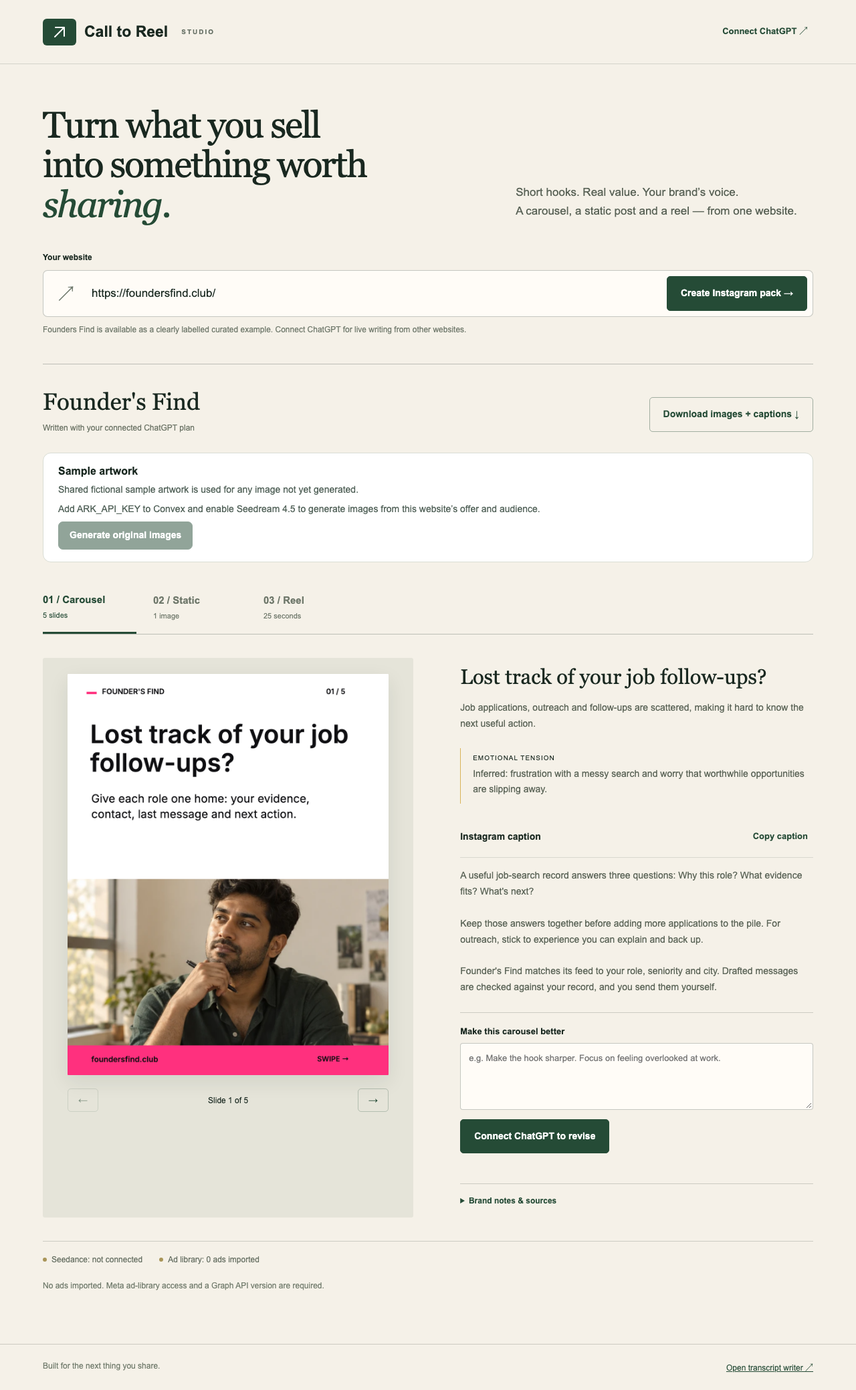
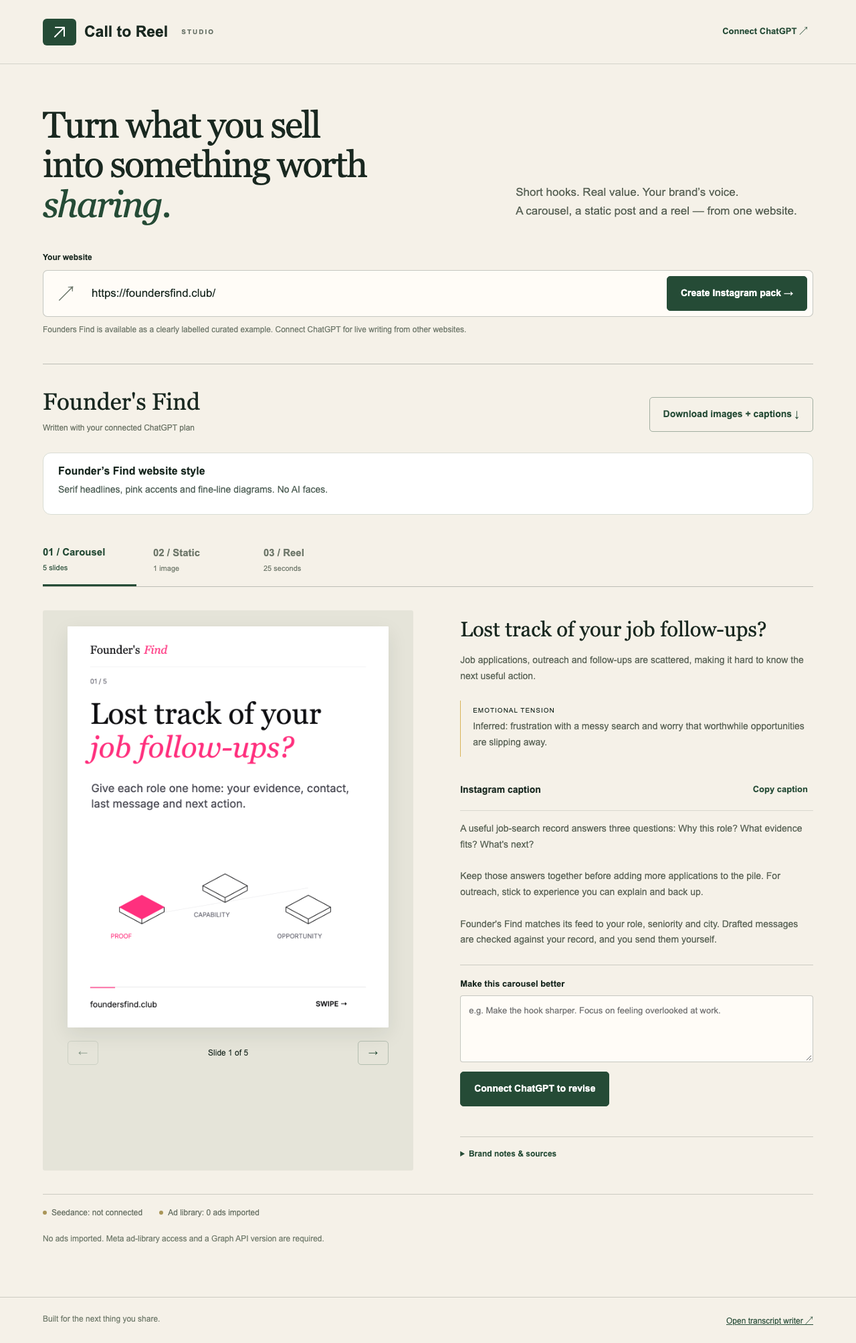
Match Founder’s Find website typography and remove AI faces from creatives

diff --git a/src/main.tsx b/src/main.tsx
@@ -3,6 +3,7 @@ import {createRoot} from 'react-dom/client';
 import {ConvexReactClient,useQuery,useMutation,useAction,useConvexAuth} from 'convex/react';
 import {ConvexAuthProvider,useAuthActions} from '@convex-dev/auth/react';
 import {api} from '../convex/_generated/api';
+import {typographyOnly} from '../convex/brandPresentation';
 import type {Brand,Post} from '../convex/studioTypes';
 import {TranscriptApp} from './TranscriptApp';
 import {drawFrame,exportImages,exportReel,exportAvatar} from './render';
@@ -37,20 +38,20 @@ function App(){
   <header className="studio-header"><a href="/" className="wordmark"><span className="mark"><svg width="24" height="24" viewBox="0 0 24 24" fill="none" aria-hidden="true"><path d="M5 19 19 5M6 5h13v13" stroke="currentColor" strokeWidth="2" strokeLinecap="round" strokeLinejoin="round"/></svg></span> Call to Reel <span className="beta">STUDIO</span></a><div className="connection">{connected?<><span className="connected-dot"/>ChatGPT connected<button className="text-button" onClick={()=>void disconnect({}).then(()=>signOut()).then(()=>setConnected(false))}>Disconnect</button></>:<button className="text-button" onClick={connect}>Connect ChatGPT ↗</button>}</div></header>
   <main className="studio-main">
    <section className="intro"><h1>Turn what you sell<br/>into something worth <em>sharing.</em></h1><p className="intro-copy">Short hooks. Real value. Your brand’s voice.<br/>A carousel, a static post and a reel — from one website.</p></section>
-   <form className="website-form" onSubmit={e=>{e.preventDefault();void create();}}><label htmlFor="website">Your website</label><div className="url-row"><span aria-hidden>↗</span><input id="website" type="text" inputMode="url" autoComplete="url" value={website} onChange={e=>setWebsite(e.target.value)} placeholder="https://yourbrand.com" required/><button disabled={starting||!!pack&&!pack.posts&&!pack.error}>{starting?'Starting…':'Create Instagram pack →'}</button></div><p>{connected?(providers?.images?'Writing uses your ChatGPT plan. Each new pack also requests two Seedream images using your configured BytePlus credits.':'Uses your connected ChatGPT plan. No paid API fallback.'):'Founders Find is available as a clearly labelled curated example. Connect ChatGPT for live writing from other websites.'}</p></form>
+   <form className="website-form" onSubmit={e=>{e.preventDefault();void create();}}><label htmlFor="website">Your website</label><div className="url-row"><span aria-hidden>↗</span><input id="website" type="text" inputMode="url" autoComplete="url" value={website} onChange={e=>setWebsite(e.target.value)} placeholder="https://yourbrand.com" required/><button disabled={starting||!!pack&&!pack.posts&&!pack.error}>{starting?'Starting…':'Create Instagram pack →'}</button></div><p>{connected?(providers?.images&&!typographyOnly({sourceUrl:website.includes('://')?website:'https://'+website})?'Writing uses your ChatGPT plan. Each new pack also requests two Seedream images using your configured BytePlus credits.':'Uses your connected ChatGPT plan. No paid API fallback.'):'Founders Find is available as a clearly labelled curated example. Connect ChatGPT for live writing from other websites.'}</p></form>
    {error&&<div className="error" role="alert">{error}</div>}
    {pack&&!pack.posts&&!pack.error&&<section className="progress" aria-live="polite"><span className="spinner"/><div><h2>{pack.stage}</h2><p>You can reload this page. Your pack keeps working in Convex.</p></div></section>}
    {pack?.error&&<section className="error" role="alert"><strong>This pack needs attention.</strong><p>{pack.error}</p><button onClick={()=>void create()}>Try again</button></section>}
    {pack?.posts&&pack.brand&&post&&<section className="pack-section">
     {pack.mode?.startsWith('Curated')&&<div className="sample-banner" role="status"><strong>Sample mode — curated Founders Find example</strong><p>This pack did not run the live AI writer. Connect ChatGPT for fresh content and feedback revisions.</p></div>}
     <div className="pack-heading"><div><h2>{pack.brand.name}</h2><p className="mode">{pack.mode}</p></div><button className="secondary" disabled={!!exporting} onClick={()=>void download('images')}>Download images + captions ↓</button></div>
-    <div className="image-status"><strong>{pack.imageStatus==='running'?'Generating original images for this website…':pack.imageStatus==='succeeded'?'Original images for this pack': 'Sample artwork'}</strong><p>{pack.imageError??pack.brand.artwork?.note??'Shared fictional sample artwork is used. It was not generated from this website.'}</p>{pack.imageStatus!=='succeeded'&&<><p>{providers?.images?'Seedream uses your BytePlus image credits. Two images are requested; completed images are kept on retry.':'Add ARK_API_KEY to Convex and enable Seedream 4.5 to generate images from this website’s offer and audience.'}</p><button disabled={!providers?.images||!connected||pack.imageStatus==='running'} onClick={()=>void freshImages()}>{pack.imageStatus==='running'?'Generating images…':pack.imageStatus==='failed'?'Retry original images':'Generate original images'}</button></>}</div>
+    <div className="image-status">{typographyOnly(pack.brand)?<><strong>Founder’s Find website style</strong><p>Serif headlines, pink accents and fine-line diagrams. No AI faces.</p></>:<><strong>{pack.imageStatus==='running'?'Generating original images for this website…':pack.imageStatus==='succeeded'?'Original images for this pack': 'Sample artwork'}</strong><p>{pack.imageError??pack.brand.artwork?.note??'Shared fictional sample artwork is used. It was not generated from this website.'}</p>{pack.imageStatus!=='succeeded'&&<><p>{providers?.images&&!typographyOnly({sourceUrl:website.includes('://')?website:'https://'+website})?'Seedream uses your BytePlus image credits. Two images are requested; completed images are kept on retry.':'Add ARK_API_KEY to Convex and enable Seedream 4.5 to generate images from this website’s offer and audience.'}</p><button disabled={!providers?.images||!connected||pack.imageStatus==='running'} onClick={()=>void freshImages()}>{pack.imageStatus==='running'?'Generating images…':pack.imageStatus==='failed'?'Retry original images':'Generate original images'}</button></>}</>}</div>
     <div className="format-tabs" role="tablist" aria-label="Post format">{(['carousel','static','reel'] as const).map(f=><button key={f} role="tab" aria-selected={active===f} onClick={()=>{setActive(f);setSlide(0);setCopied(false);}}>{f==='carousel'?'01 / Carousel':f==='static'?'02 / Static':'03 / Reel'}<span>{f==='carousel'?'5 slides':f==='static'?'1 image':'25 seconds'}</span></button>)}</div>
     <div className="creative-workspace"><div className="preview-column"><Preview post={post} brand={pack.brand} index={slide}/>{post.frames.length>1&&<div className="slide-nav"><button aria-label="Previous slide" disabled={slide===0} onClick={()=>setSlide(s=>s-1)}>←</button><span>{active==='reel'?'Scene':'Slide'} {slide+1} of {post.frames.length}</span><button aria-label="Next slide" disabled={slide===post.frames.length-1} onClick={()=>setSlide(s=>s+1)}>→</button></div>}</div>
      <aside className="content-column"><h3>{post.hook}</h3><p>{post.pain}</p><div className="emotion"><span>Emotional tension</span><p>{post.emotion}</p></div><div className="caption-heading"><h4>Instagram caption</h4><button className="text-button" onClick={()=>void navigator.clipboard.writeText(post.caption).then(()=>setCopied(true))}>{copied?'Copied ✓':'Copy caption'}</button></div><p className="caption">{post.caption}</p>
-      {active==='reel'&&<div className="media-note"><strong>Motion reel with original music</strong><p>A fictional AI-created portrait with animated text. This is not a talking or lip-synced avatar.</p><button disabled={!!exporting} onClick={()=>void download('reel')}>Download MP4 reel ↓</button><hr/><strong>Seedance talking-presenter video</strong>{pack.videoUrl?<><video controls src={pack.videoUrl} className="generated-video"/><p>Generated by Seedance. Review speech, appearance and claims before sharing.</p><button disabled={!!exporting} onClick={()=>void download('avatar')}>Download branded avatar MP4 ↓</button><a href={pack.videoUrl} target="_blank" rel="noreferrer">Open generated video ↗</a></>:<><p>{pack.videoError??(pack.videoStatus==='running'||pack.videoStatus==='queued'?'Seedance is generating your presenter video. This page will update.':providers?.seedance?'Uses your BytePlus video credits. A fictional presenter reads this reel.':'Add ARK_API_KEY to Convex to enable Seedance 2.5. ChatGPT does not include BytePlus video credits.')}</p><button disabled={!providers?.seedance||!connected||['queued','running'].includes(pack.videoStatus??'')} onClick={()=>void seedance()}>{pack.videoStatus==='running'||pack.videoStatus==='queued'?'Generating presenter…':pack.hasVideoTask?'Retry saved video task':'Generate with Seedance'}</button></>}</div>}
+      {active==='reel'&&<div className="media-note"><strong>Motion reel with original music</strong><p>{typographyOnly(pack.brand)?'Animated typography and fine-line brand diagrams. No AI faces.':'A fictional AI-created portrait with animated text. This is not a talking or lip-synced avatar.'}</p><button disabled={!!exporting} onClick={()=>void download('reel')}>Download MP4 reel ↓</button>{!typographyOnly(pack.brand)&&<><hr/><strong>Seedance talking-presenter video</strong>{pack.videoUrl?<><video controls src={pack.videoUrl} className="generated-video"/><p>Generated by Seedance. Review speech, appearance and claims before sharing.</p><button disabled={!!exporting} onClick={()=>void download('avatar')}>Download branded avatar MP4 ↓</button><a href={pack.videoUrl} target="_blank" rel="noreferrer">Open generated video ↗</a></>:<><p>{pack.videoError??(pack.videoStatus==='running'||pack.videoStatus==='queued'?'Seedance is generating your presenter video. This page will update.':providers?.seedance?'Uses your BytePlus video credits. A fictional presenter reads this reel.':'Add ARK_API_KEY to Convex to enable Seedance 2.5. ChatGPT does not include BytePlus video credits.')}</p><button disabled={!providers?.seedance||!connected||['queued','running'].includes(pack.videoStatus??'')} onClick={()=>void seedance()}>{pack.videoStatus==='running'||pack.videoStatus==='queued'?'Generating presenter…':pack.hasVideoTask?'Retry saved video task':'Generate with Seedance'}</button></>}</>}</div>}
       <form className="feedback-form" onSubmit={e=>{e.preventDefault();if(connected)void improve();else connect();}}><label htmlFor="feedback">Make this {active} better</label><textarea id="feedback" maxLength={1000} value={feedback} onChange={e=>setFeedback(e.target.value)} placeholder="e.g. Make the hook sharper. Focus on feeling overlooked at work."/><button disabled={revising||!!pack&&!pack.error&&pack.stage!=='Ready'}>{revising||pack.stage!=='Ready'&&!pack.error?'Revising…':connected?'Revise this '+active:'Connect ChatGPT to revise'}</button></form>
-      <details><summary>Brand notes & sources</summary><p><strong>Audience:</strong> {pack.brand.audience}</p><p><strong>Offer:</strong> {pack.brand.offer}</p><p>{pack.brand.voice}</p><p>{pack.brand.palette?.note??'Neutral editorial artwork template; no formal brand guide was supplied.'}</p><a href={pack.brand.sourceUrl} target="_blank" rel="noreferrer">Read source website ↗</a><ul>{post.sourceFacts.map(f=><li key={f}>{f}</li>)}</ul><p>Images depict original fictional people. Emotions are inferred audience tensions, not customer quotes.</p></details>
+      <details><summary>Brand notes & sources</summary><p><strong>Audience:</strong> {pack.brand.audience}</p><p><strong>Offer:</strong> {pack.brand.offer}</p><p>{pack.brand.voice}</p><p>{pack.brand.palette?.note??'Neutral editorial artwork template; no formal brand guide was supplied.'}</p><a href={pack.brand.sourceUrl} target="_blank" rel="noreferrer">Read source website ↗</a><ul>{post.sourceFacts.map(f=><li key={f}>{f}</li>)}</ul><p>{typographyOnly(pack.brand)?'Typography and diagrams follow the website’s visual style.':'Images depict original fictional people.'} Emotions are inferred audience tensions, not customer quotes.</p></details>
      </aside></div>
     {exporting&&<p className="export-progress" role="status">{exporting} Keep this tab open.</p>}
     <div className="integration-status"><span><i/>Seedance: {providers?.seedance?'configured — live output still needs checking':'not connected'}</span><span><i/>Ad library: {pack.ads?.length??0} ads imported</span><p>{pack.adError??'Ad-library inspiration has not been imported for this saved pack.'}</p>{pack.ads?.map(ad=><a key={ad.id} href={ad.snapshotUrl} target="_blank" rel="noreferrer">{ad.pageName} — view source ad ↗</a>)}</div>

diff --git a/src/render.ts b/src/render.ts
@@ -1,4 +1,5 @@
 import { zipSync, strToU8 } from 'fflate';
+import {typographyOnly} from '../convex/brandPresentation';
 import {foundersPalette} from '../convex/brandPalette';
 import type { Brand, Post, Frame } from '../convex/studioTypes';
 const ink='#192820',paper='#F5F1E8',green='#254B36',gold='#D8B45A';
@@ -11,8 +12,8 @@ function images(brand:Brand){
  if(!pending){pending=Promise.all(urls.map(src=>new Promise<HTMLImageElement>((resolve,reject)=>{const i=new Image();i.crossOrigin='anonymous';i.onload=()=>resolve(i);i.onerror=()=>reject(new Error('Artwork could not be loaded. Reload the pack and try again.'));i.src=src;})));portraitCache.set(key,pending);pending.catch(()=>portraitCache.delete(key));}
  return pending;
 }
-function wrapped(ctx:CanvasRenderingContext2D,text:string,x:number,y:number,width:number,size:number,line:number,weight=600,color=(ctx.canvas as HTMLCanvasElement).dataset.ink??ink){
- ctx.font=`${weight} ${size}px ${(ctx.canvas as HTMLCanvasElement).dataset.font??'Arial'}, sans-serif`;ctx.fillStyle=color;ctx.textBaseline='top';
+function wrapped(ctx:CanvasRenderingContext2D,text:string,x:number,y:number,width:number,size:number,line:number,weight=600,color=(ctx.canvas as HTMLCanvasElement).dataset.ink??ink,style=''){
+ ctx.font=`${style} ${weight} ${size}px ${(ctx.canvas as HTMLCanvasElement).dataset.font??'Arial'}, sans-serif`;ctx.fillStyle=color;ctx.textBaseline='top';
  for(const paragraph of text.split('\n')){
   let row='';for(const word of paragraph.split(/\s+/)){const next=row?row+' '+word:word;if(row&&ctx.measureText(next).width>width){ctx.fillText(row,x,y);y+=line;row=word;}else row=next;}ctx.fillText(row,x,y);y+=line;
  }
@@ -25,6 +26,7 @@ export async function drawFrame(post:Post,brand:Brand,index:number,progress=0,ca
  const {ink,paper,primary:green,accent:gold}=palette;
  const onPrimary=contrast(paper,green)>=4.5?paper:ink;
  if(isFounders)await Promise.all([400,600,700].map(w=>document.fonts.load(`${w} 40px "Brand Inter"`)));
+ if(typographyOnly(brand))return drawFounders(post,brand,index,progress,canvas);
  const pics=await images(brand);const c=canvas??document.createElement('canvas');c.width=1080;c.height=post.format==='reel'?1920:1350;c.dataset.ink=ink;c.dataset.font=isFounders?'"Brand Inter"':'Arial';const ctx=c.getContext('2d')!;const h=c.height;const frame=post.frames[index];
  ctx.fillStyle=paper;ctx.fillRect(0,0,1080,h);
  ctx.fillStyle=green;ctx.fillRect(64,60,34,8);
@@ -61,6 +63,37 @@ export async function drawFrame(post:Post,brand:Brand,index:number,progress=0,ca
  if(post.format==='carousel'&&index<post.frames.length-1)wrapped(ctx,'SWIPE →',840,h-65,180,24,35,600,onPrimary);
  return c;
 }
+
+function drawFounders(post:Post,brand:Brand,index:number,progress:number,canvas?:HTMLCanvasElement){
+ const c=canvas??document.createElement('canvas');c.width=1080;c.height=post.format==='reel'?1920:1350;
+ c.dataset.font='"Brand Inter"';c.dataset.ink='#0f0f12';const ctx=c.getContext('2d')!,h=c.height;
+ const pink='#ff307e',ink='#0f0f12';ctx.fillStyle='#fff';ctx.fillRect(0,0,c.width,h);
+ ctx.textBaseline='top';ctx.font='400 38px Georgia';ctx.fillStyle=ink;ctx.fillText("Founder's",76,62);ctx.font='italic 38px Georgia';ctx.fillStyle=pink;ctx.fillText('Find',ctx.measureText("Founder's").width+88,62);
+ ctx.strokeStyle='#e5e5e8';ctx.lineWidth=1;ctx.beginPath();ctx.moveTo(76,136);ctx.lineTo(1004,136);ctx.stroke();
+ wrapped(ctx,post.format==='carousel'?`${String(index+1).padStart(2,'0')} / ${post.frames.length}`:post.format==='static'?'INSTAGRAM / STATIC':'INSTAGRAM / REEL',76,175,900,22,30,400,'#686873');
+ const frame=post.frames[index];c.dataset.font='Georgia';
+ const words=frame.heading.split(/\s+/),accent=words.length>=4?words.splice(-2).join(' '):'',size=post.format==='static'?110:100,line=post.format==='static'?122:113;
+ let headingEnd=wrapped(ctx,accent?words.join(' '):frame.heading,76,post.format==='reel'?310:250,928,size,line,400,ink);
+ if(accent)headingEnd=wrapped(ctx,accent,76,headingEnd,928,size,line,400,pink,'italic');
+ c.dataset.font='"Brand Inter"';const bodyEnd=wrapped(ctx,frame.body,80,headingEnd+52,890,post.format==='reel'?43:37,post.format==='reel'?59:52,400,'#45454f');
+ // Geometric career-path tiles follow the website's thin-line isometric language.
+ const centreY=Math.max(bodyEnd+110,post.format==='reel'?1220:945);
+ if(centreY+160<h-140){
+  const labels=['Proof','Capability','Opportunity'];
+  const tile=(x:number,y:number,active:boolean,label:string)=>{
+   ctx.fillStyle=active?pink:'#fff';ctx.strokeStyle=active?pink:ink;ctx.lineWidth=2;ctx.beginPath();ctx.moveTo(x,y-40);ctx.lineTo(x+75,y);ctx.lineTo(x,y+40);ctx.lineTo(x-75,y);ctx.closePath();ctx.fill();ctx.stroke();
+   ctx.strokeStyle=ink;ctx.beginPath();ctx.moveTo(x-75,y);ctx.lineTo(x-75,y+16);ctx.lineTo(x,y+56);ctx.lineTo(x+75,y+16);ctx.lineTo(x+75,y);ctx.moveTo(x,y+40);ctx.lineTo(x,y+56);ctx.stroke();
+   wrapped(ctx,label.toUpperCase(),x-105,y+88,230,21,29,400,active?pink:'#686873');
+  };
+  ctx.strokeStyle='#e5e5e8';ctx.lineWidth=1;ctx.beginPath();ctx.moveTo(250,centreY+30);ctx.lineTo(810,centreY-65);ctx.stroke();
+  labels.forEach((label,n)=>tile(250+n*280,centreY+(n===1?-72:0),n===(post.format==='reel'?Math.floor(progress*3)%3:index%3),label));
+ }
+ ctx.strokeStyle='#e5e5e8';ctx.beginPath();ctx.moveTo(76,h-136);ctx.lineTo(1004,h-136);ctx.stroke();
+ wrapped(ctx,'foundersfind.club',76,h-90,760,27,36,400,ink);
+ if(post.format==='carousel'&&index<post.frames.length-1)wrapped(ctx,'SWIPE →',835,h-90,185,24,36,600,ink);
+ ctx.fillStyle=pink;ctx.fillRect(76,h-136,post.format==='reel'?928*((index+progress)/post.frames.length):84,3);
+ return c;
+}
 export async function frameBlob(post:Post,brand:Brand,index:number){const c=await drawFrame(post,brand,index);return new Promise<Blob>((resolve,reject)=>c.toBlob(b=>b?resolve(b):reject(new Error('Artwork export failed.')),'image/png'));}
 export function download(blob:Blob,name:string){const u=URL.createObjectURL(blob);const a=document.createElement('a');a.href=u;a.download=name;a.click();setTimeout(()=>URL.revokeObjectURL(u),30000);}
 export async function exportImages(posts:Post[],brand:Brand,onProgress:(s:string)=>void,ads:{pageName:string;snapshotUrl:string;body:string}[]=[]){
@@ -69,8 +102,8 @@ export async function exportImages(posts:Post[],brand:Brand,onProgress:(s:string
   onProgress(`Rendering ${p.format} ${i+1} of ${p.frames.length}`);
   files[`${p.format}/${String(i+1).padStart(2,'0')}.png`]=new Uint8Array(await (await frameBlob(p,brand,i)).arrayBuffer());
  }
- files['captions.txt']=strToU8(posts.map(p=>`${p.format.toUpperCase()}\n\n${p.caption}\n\nALT TEXT\n${p.altText}`).join('\n\n----------\n\n'));
- files['sources.txt']=strToU8(`${brand.sourceUrl}\n\n${brand.facts.join('\n')}\n\nBrand voice and audience emotions are inferred. ${brand.artwork?.note??'Shared original fictional sample artwork.'} Imagery is conceptual, not a customer testimonial or an exact product photograph. ${ads.length?'Imported ad sources (structural inspiration only, no performance claims):\n'+ads.map(a=>a.pageName+' — '+a.snapshotUrl).join('\n'):'No ad-library records were imported.'} Reel video is downloaded separately.`);
+ files['captions.txt']=strToU8(posts.map(p=>`${p.format.toUpperCase()}\n\n${p.caption}\n\nALT TEXT\n${typographyOnly(brand)?'Founder’s Find typography-led '+p.format+' with serif headlines, pink italic emphasis and thin-line career diagrams. '+p.frames.map(f=>f.heading).join(' / '):p.altText}`).join('\n\n----------\n\n'));
+ files['sources.txt']=strToU8(`${brand.sourceUrl}\n\n${brand.facts.join('\n')}\n\nBrand voice and audience emotions are inferred. ${typographyOnly(brand)?'Typography and original geometric diagrams based on the website. No AI faces.':brand.artwork?.note??'Shared original fictional sample artwork.'} Imagery is conceptual, not a customer testimonial or an exact product photograph. ${ads.length?'Imported ad sources (structural inspiration only, no performance claims):\n'+ads.map(a=>a.pageName+' — '+a.snapshotUrl).join('\n'):'No ad-library records were imported.'} Reel video is downloaded separately.`);
  download(new Blob([zipSync(files) as BlobPart],{type:'application/zip'}),`${brand.name.toLowerCase().replace(/\W+/g,'-')}-instagram.zip`);
 }
 export async function exportReel(post:Post,brand:Brand,onProgress:(s:string)=>void){

diff --git a/convex/images.ts b/convex/images.ts
@@ -1,6 +1,7 @@
 import {mutation,internalMutation,type MutationCtx} from './_generated/server';
 import type {Id} from './_generated/dataModel';
 import {internal,components} from './_generated/api';
+import {typographyOnly} from './brandPresentation';
 import {v,ConvexError} from 'convex/values';
 import {getAuthUserId} from '@convex-dev/auth/server';
 import {WorkflowManager} from '@convex-dev/workflow';
@@ -10,6 +11,7 @@ export const generate=mutation({args:{token:v.string()},returns:v.null(),handler
  const userId=await getAuthUserId(ctx);if(!userId)throw new ConvexError('Connect ChatGPT before requesting paid images.');
  const pack=await ctx.db.query('packs').withIndex('by_token',q=>q.eq('token',token)).unique();
  if(!pack?.posts||!pack.brand||pack.userId&&pack.userId!==userId)throw new ConvexError('This pack is not available to your connection.');
+ if(typographyOnly(pack.brand))throw new ConvexError('Founder’s Find uses website-led typography and diagrams, without AI faces.');
  if(['running','succeeded'].includes(pack.imageStatus??''))throw new ConvexError('Images are already being generated or saved.');
  await ctx.db.patch(pack._id,{userId});await queue(ctx,pack._id);return null;
 }});
@@ -19,7 +21,7 @@ async function queue(ctx:MutationCtx,packId:Id<'packs'>){
  await ctx.scheduler.runAfter(210000,internal.images.expire,{packId:packId,startedAt});return null;
 }
 export const auto=internalMutation({args:{packId:v.id('packs')},returns:v.null(),handler:async(ctx,{packId})=>{
- const pack=await ctx.db.get(packId);if(!process.env.ARK_API_KEY||!pack?.userId||!pack.brand||!pack.posts||pack.imageStatus)return null;
+ const pack=await ctx.db.get(packId);if(!process.env.ARK_API_KEY||!pack?.userId||!pack.brand||!pack.posts||pack.imageStatus||typographyOnly(pack.brand))return null;
  await queue(ctx,packId);return null;
 }});
 export const imageWorkflow=workflow.define({args:{packId:v.id('packs'),startedAt:v.number()},returns:v.null()}).handler(async(step,{packId,startedAt}):Promise<null>=>{

diff --git a/tests/website-flow.ts b/tests/website-flow.ts
@@ -34,8 +34,8 @@ try{
  console.log('PASS typed feedback revises only the static post; carousel and reel remain byte-for-byte unchanged');
  await page.screenshot({path:'verification/studio-revision.png',fullPage:true});
  const zipWait=page.waitForEvent('download');await page.getByRole('button',{name:'Download images + captions'}).click();await (await zipWait).saveAs('verification/founders-instagram.zip');
- await page.getByRole('tab',{name:'03 / Reel'}).click();assert.equal(await page.getByRole('button',{name:'Generate with Seedance'}).isDisabled(),true);
- console.log('PASS missing Seedance key is visible and cannot trigger a paid request; no fake imported ads');
+ await page.getByRole('tab',{name:'03 / Reel'}).click();if(new URL(after!.brand!.sourceUrl).hostname==='foundersfind.club')assert.equal(await page.getByRole('button',{name:'Generate with Seedance'}).count(),0);else assert.equal(await page.getByRole('button',{name:'Generate with Seedance'}).isDisabled(),true);
+ console.log('PASS brand media controls honour the face-free profile or missing provider access; no fake imported ads');
  const videoWait=page.waitForEvent('download',{timeout:180000});await page.getByRole('button',{name:'Download MP4 reel'}).click();await (await videoWait).saveAs('verification/founders-reel.mp4');
  console.log('PASS revised pack downloads six PNGs/captions and a finished motion MP4');
  await page.reload();await page.getByRole('tab',{name:'01 / Carousel'}).waitFor();console.log('PASS saved pack survives reload');

diff --git a/convex/media.ts b/convex/media.ts
@@ -1,5 +1,6 @@
 import {mutation,query,internalMutation} from './_generated/server';
 import {internal,components} from './_generated/api';
+import {typographyOnly} from './brandPresentation';
 import {v,ConvexError} from 'convex/values';
 import {getAuthUserId} from '@convex-dev/auth/server';
 import {WorkflowManager} from '@convex-dev/workflow';
@@ -10,6 +11,7 @@ export const generate=mutation({args:{token:v.string()},returns:v.null(),handler
  const userId=await getAuthUserId(ctx);if(!userId)throw new ConvexError('Connect ChatGPT before requesting paid video generation.');
  const pack=await ctx.db.query('packs').withIndex('by_token',q=>q.eq('token',token)).unique();
  if(!pack?.posts||!pack.brand||pack.userId&&pack.userId!==userId)throw new ConvexError('This pack is not available to your connection.');
+ if(typographyOnly(pack.brand))throw new ConvexError('Founder’s Find uses a typographic motion reel, without AI faces.');
  if(['queued','running','succeeded'].includes(pack.videoStatus??''))throw new ConvexError('This pack already has a video request.');
  await ctx.db.patch(pack._id,{userId,videoStatus:pack.videoTask?'running':'queued',videoError:undefined});
  await workflow.start(ctx,internal.media.videoWorkflow,{packId:pack._id,resume:!!pack.videoTask});return null;

diff --git a/convex/_generated/api.d.ts b/convex/_generated/api.d.ts
@@ -12,6 +12,7 @@ import type * as adInspiration from "../adInspiration.js";
 import type * as adStore from "../adStore.js";
 import type * as auth from "../auth.js";
 import type * as brandPalette from "../brandPalette.js";
+import type * as brandPresentation from "../brandPresentation.js";
 import type * as chatgpt from "../chatgpt.js";
 import type * as chatgptModel from "../chatgptModel.js";
 import type * as chatgptSecurity from "../chatgptSecurity.js";
@@ -52,6 +53,7 @@ declare const fullApi: ApiFromModules<{
   adStore: typeof adStore;
   auth: typeof auth;
   brandPalette: typeof brandPalette;
+  brandPresentation: typeof brandPresentation;
   chatgpt: typeof chatgpt;
   chatgptModel: typeof chatgptModel;
   chatgptSecurity: typeof chatgptSecurity;

diff --git a/tests/studio.test.ts b/tests/studio.test.ts
@@ -68,3 +68,6 @@ test('Seedream 4.5 JPEG output is accepted with its real dimensions and truncate
  assert.deepEqual(Buffer.from(await generateImage('test',{},async()=>Response.json({data:[{b64_json:jpeg.toString('base64')}]}))),jpeg);
  assert.throws(()=>imageInfo(jpeg.subarray(0,100)),/unsupported or incomplete/);
 });
+
+import {typographyOnly} from '../convex/brandPresentation';
+test('Founder’s Find uses a face-free brand profile; other websites keep their own media support',()=>{assert.equal(typographyOnly(foundersBrand),true);assert.equal(typographyOnly({sourceUrl:'https://basecamp.com/'}),false);assert.equal(typographyOnly({sourceUrl:'unfinished url'}),false);});

diff --git a/convex/brandPresentation.ts b/convex/brandPresentation.ts
@@ -1,0 +1,2 @@
+import type {Brand} from './studioTypes';
+export function typographyOnly(brand:Pick<Brand,'sourceUrl'>){try{return new URL(brand.sourceUrl).hostname.replace(/^www\./,'')==='foundersfind.club';}catch{return false;}} 

diff --git a/MORNING.md b/MORNING.md
@@ -1,3 +1,9 @@
+# Latest correction — Founder’s Find visual brand
+
+Founder feedback supersedes the earlier photographic direction below. Founder’s Find now uses the website’s Georgia serif headlines, pink italic emphasis, white space and thin-line geometric diagrams. AI faces are removed from previews, image exports and motion reels. Its image/avatar generation controls are removed and automatic portrait requests are disabled. Other brands retain their separate media support. Source-backed content was not rewritten during this visual fix. Updated ZIP and MP4 exports passed desktop/mobile browser checks; all six PNGs and a reel frame were visually inspected. Exported alt text now describes the typographic artwork rather than the old portraits.
+
+The static-ad repository URL has not been provided yet. The project inspiration library is `design/inspiration-library/`; it currently contains the verified website reference and explicitly marks the repository as pending.
+
 # Morning handoff — website to Instagram
 
 The website studio has been tested in a real Chromium browser with Founders Find and Basecamp. Nothing was deployed or pushed.
@@ -32,7 +38,7 @@ The request contract and JPEG/PNG parsing passed mock checks using real image by
 
 ## Checks and evidence
 
-- Type checks and production build pass; 31 automated checks pass.
+- Type checks and production build pass; 32 automated checks pass.
 - `verification/website-flow.txt`: full connected Founders Find browser generation, one-post revision, preservation of the other two, ZIP and MP4 downloads, refresh and honest provider status.
 - `verification/second-website-flow.txt`: connected Basecamp website generation and downloads.
 - `verification/website-deadline.txt`: three checks prove old deadlines cannot kill newer work, stalled jobs become errors, and late results cannot overwrite a failed job.

diff --git a/design/style-anchor.md b/design/style-anchor.md
@@ -13,3 +13,7 @@ Studio interface: a light editorial production desk, one URL entry, visible stag
 ## Brand palette verification
 
 A later full stylesheet inspection found Founders Find’s default primary #ff307e, ink #0f0f12, paper #ffffff and accent #f5c518, and Inter font files. Exported content now uses those observed brand colors and fonts. The studio interface retains its own forest/paper production-desk palette. The original photographic subjects remain neutral workplace imagery; they are not an official brand campaign or testimonials.
+
+## Founder’s Find correction requested by the founder
+
+The active Founder’s Find creative direction supersedes the earlier workplace-photography interpretation: Georgia serif headlines with selected pink italic emphasis, Inter body copy, white space, fine rules and original thin-line isometric diagrams. No AI faces. This applies to previews, PNG exports and motion reels. Founder’s Find does not auto-request Seedream portraits or display the talking-avatar generation control. Other brands retain their separate media support. The live homepage capture is `verification/founders-brand-reference.png`; the source library is `design/inspiration-library/founders-find.md`.

diff --git a/design/inspiration-library/founders-find.md b/design/inspiration-library/founders-find.md
@@ -1,0 +1,12 @@
+# Founder’s Find visual reference
+
+Observed live homepage, 4 October 2026: https://foundersfind.club/ .
+
+- Headlines: Georgia serif, regular weight. Selected phrases use pink italic serif.
+- Wordmark: serif “Founder’s” with pink italic “Find”.
+- Body: Inter, quieter grey. White space and fine rules establish structure.
+- Colour: white #ffffff, ink #0f0f12, pink #ff307e. Pink is selective emphasis rather than a heavy full-width footer.
+- Visuals: thin black isometric diagrams, light connecting lines and a selected pink tile. The hero connects opportunity, people, selection, proof and capability.
+- User direction: no AI faces in Founder’s Find creatives. Use type and brand diagrams in static posts, carousels and motion reels. Do not automatically request portrait generation for this brand.
+
+The app implements original geometric diagrams in this language, not invented customer photos, fake testimonials or performance charts. Source-backed copy remains unchanged by this visual correction.

diff --git a/design/inspiration-library/README.md b/design/inspiration-library/README.md
@@ -1,0 +1,8 @@
+# Creative inspiration library
+
+Brand sources establish typography, palette, spacing and image treatment. Ad references inform composition and hook/value/CTA structure; they are never copied as factual product claims or described as performance-tested without evidence.
+
+## Sources
+
+- [Founder’s Find website](https://foundersfind.club/): visual brand reference. See `founders-find.md` and the captured homepage in `verification/founders-brand-reference.png`.
+- Static-ad repository: awaiting the repository URL from the founder. No repository has been imported or reviewed yet.
